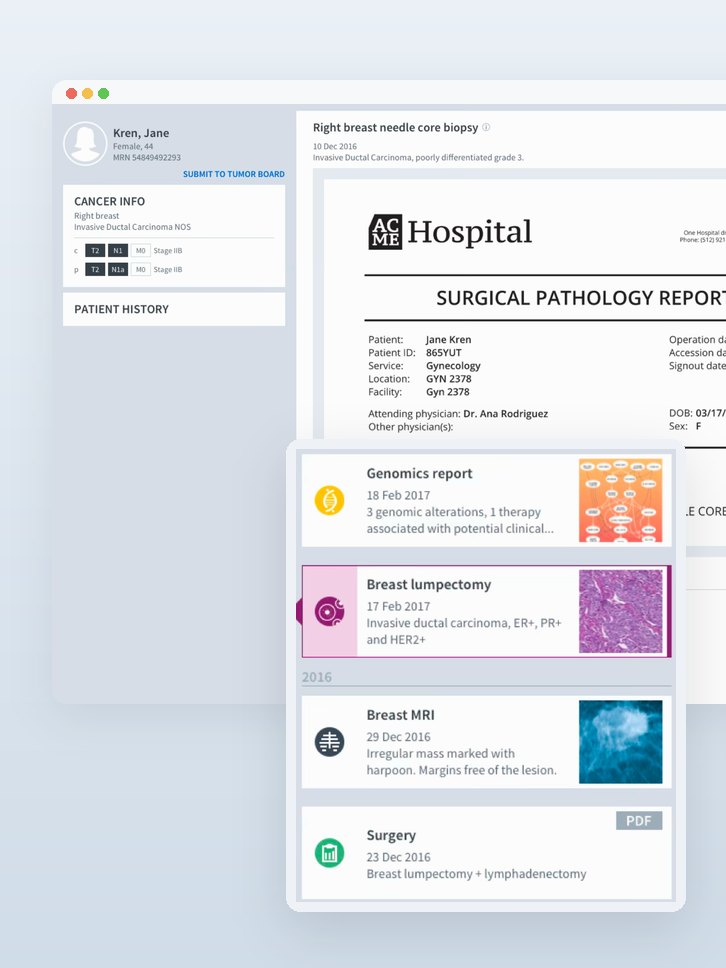
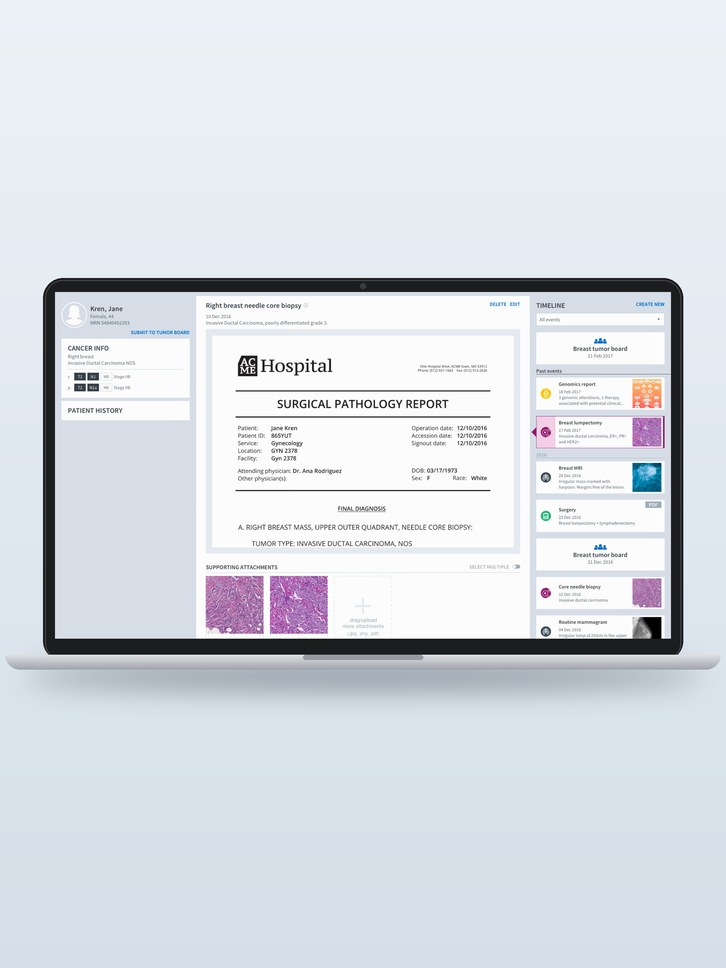
Navify thumbnail: screenshot in a laptop frame
Claude-Session: https://claude.ai/code/session_014cxg4MZ81oQF2iGMsWBg44

diff --git a/index.html b/index.html
@@ -385,7 +385,7 @@ a:focus-visible, button:focus-visible { outline: 2px solid var(--accent); outlin
         <li class="card">
           <a class="card-link" href="https://navify.roche.com/us/en-us/marketplace/products/navify-clinical-hub-for-tumor-boards" target="_blank" rel="noopener">
             <div class="slot card-media" data-label="Navify image">
-              <img src="assets/navify.jpg" width="726" height="968" alt="navify tumor board patient view with a pathology report and a timeline of genomics, lumpectomy, MRI and surgery events">
+              <img src="assets/navify.jpg" width="726" height="968" alt="navify tumor board patient view on a laptop, with a pathology report and a timeline of patient events">
             </div>
             <div class="card-text">
               <h3 class="card-title">navify Clinical Hub for Tumor Boards <span class="out" aria-hidden="true">↗</span></h3>
